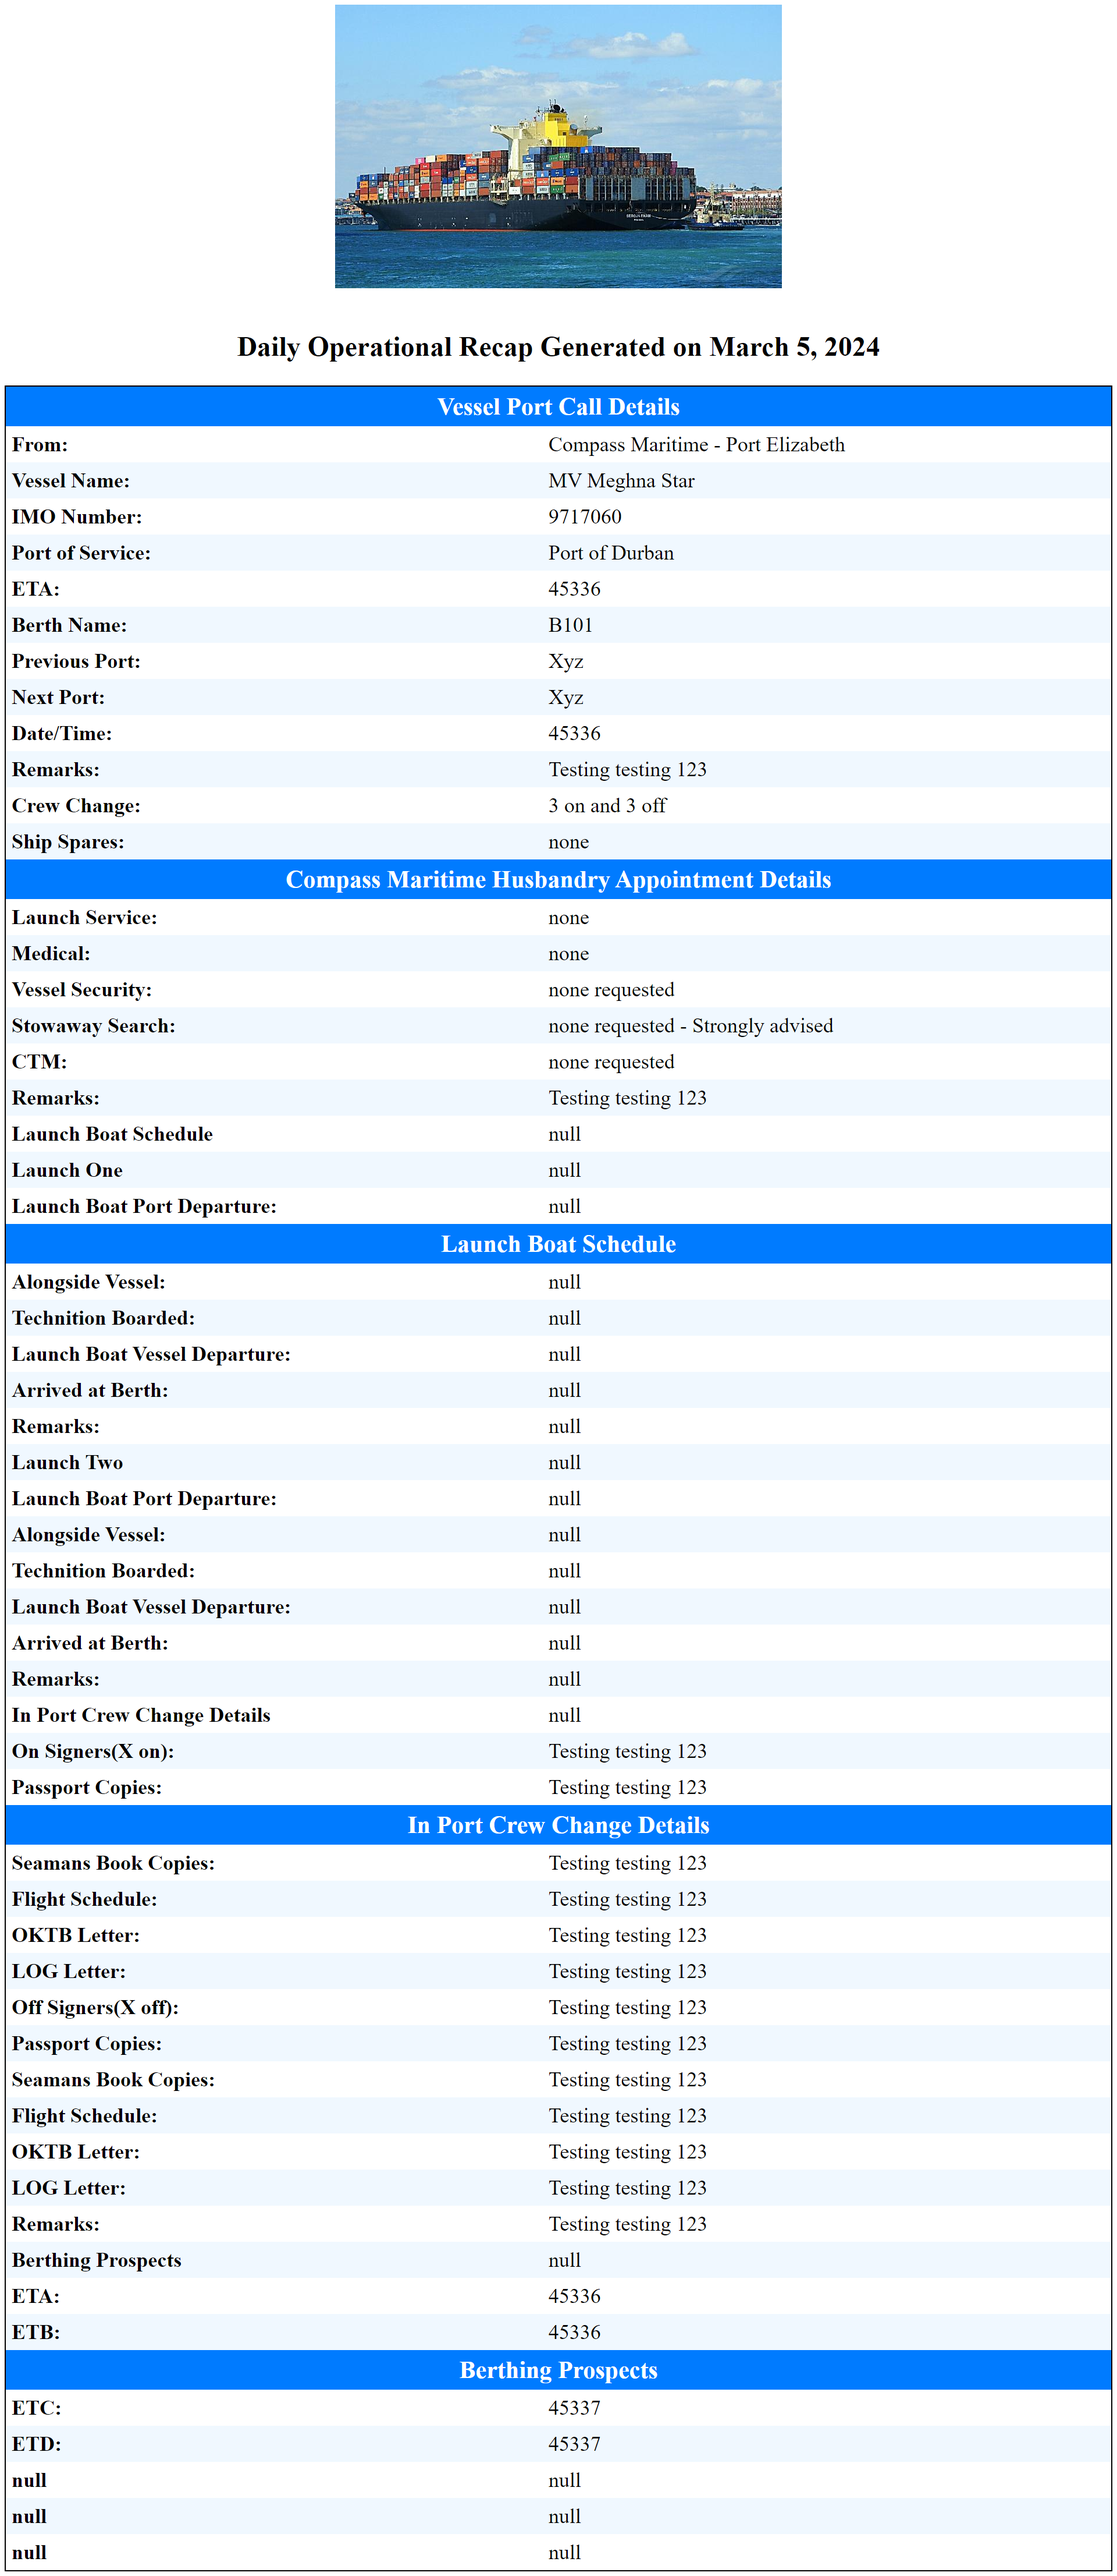
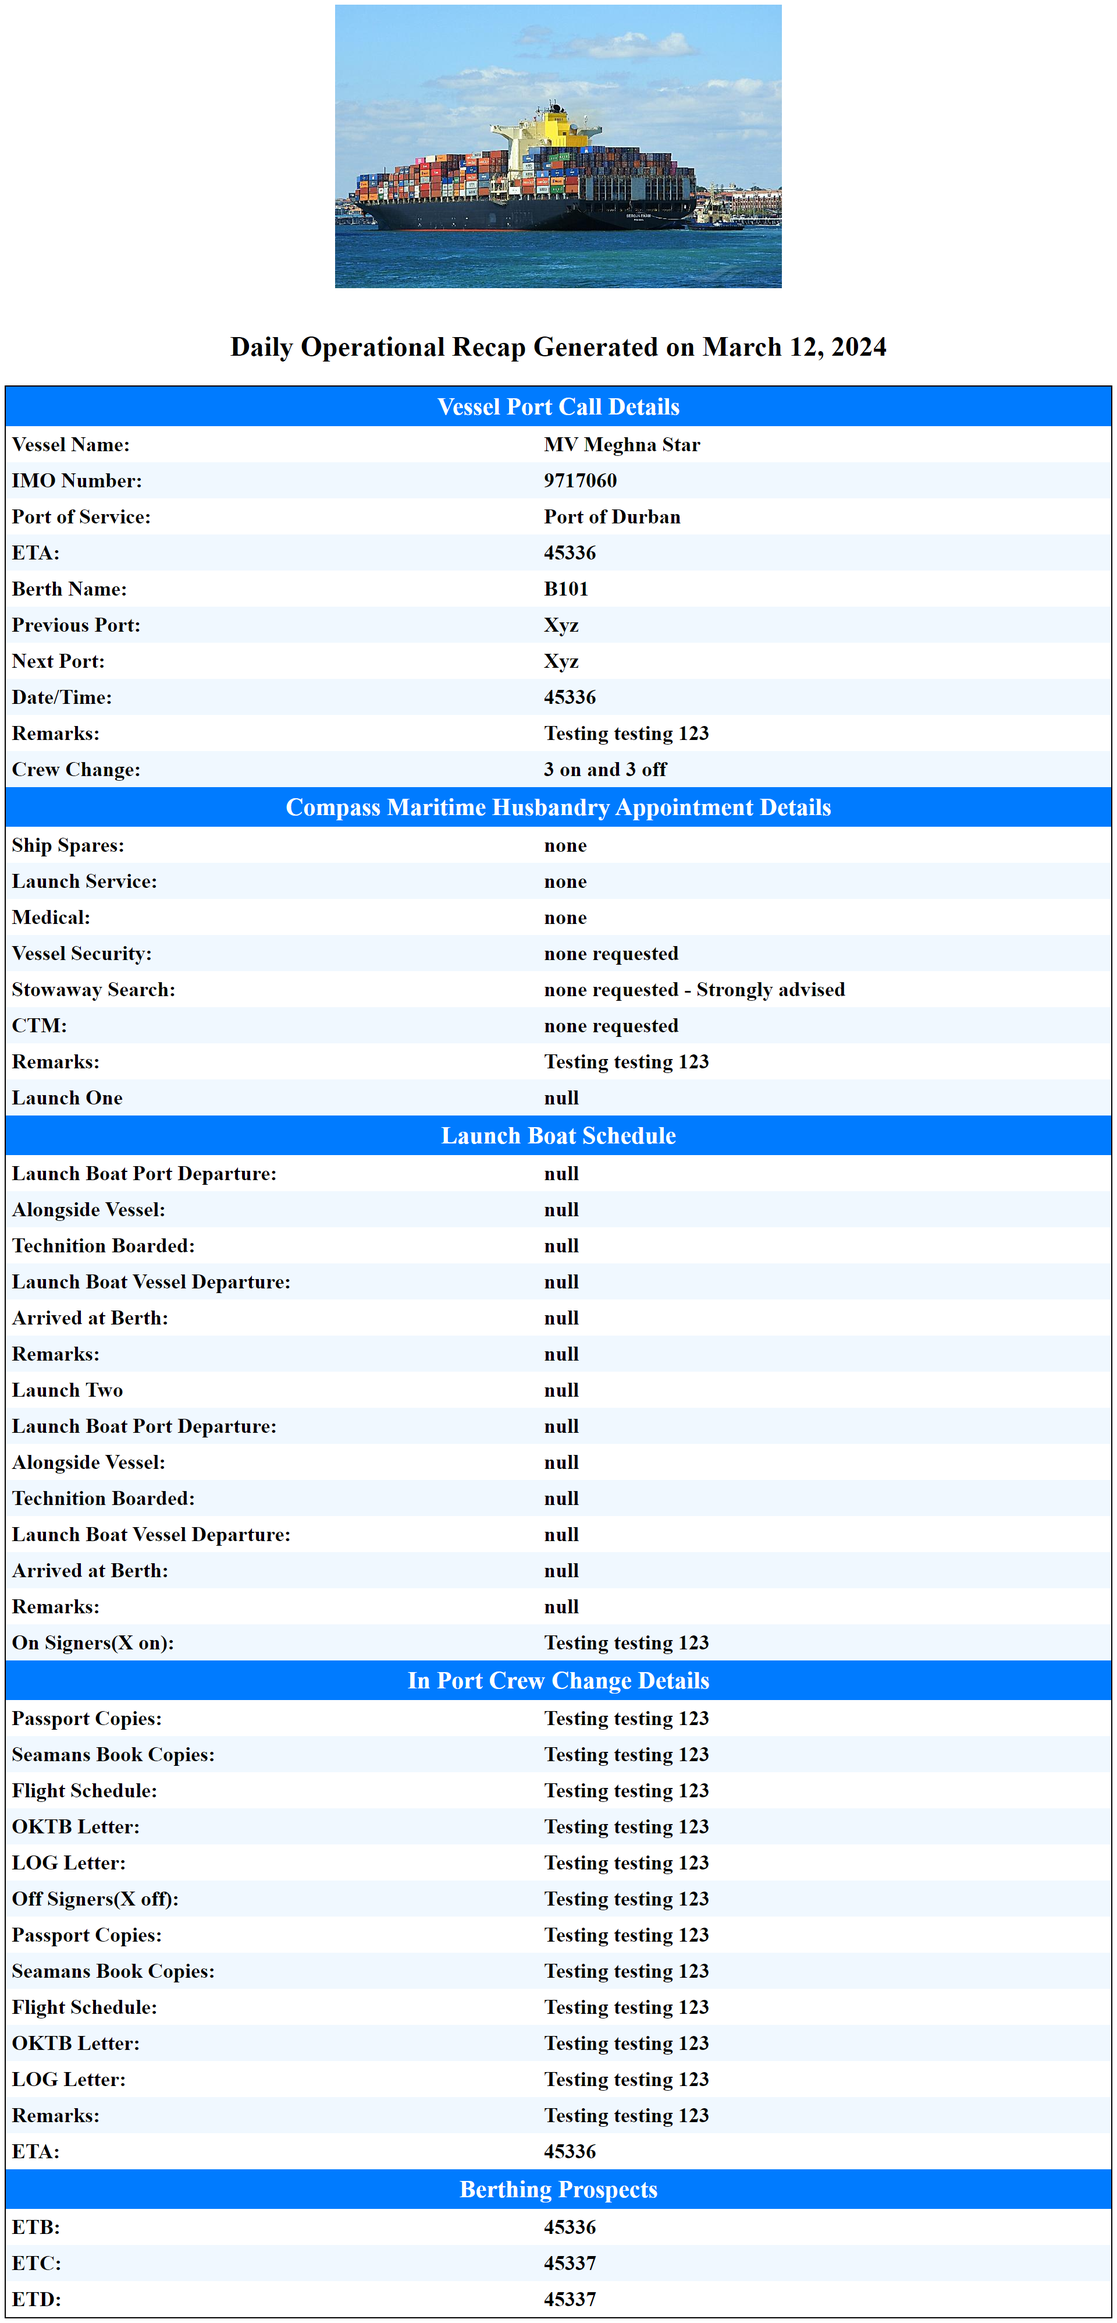
another commit - getting there

Changed region(s): [[0.0, 0.0311, 1.0, 0.9945], [0.6562, 0.404, 0.6875, 0.4351]]

diff --git a/dailyRecapScreenshot2.js b/dailyRecapScreenshot2.js
@@ -13,11 +13,11 @@ const doc = new GoogleSpreadsheet(config.googleSheetId2);
 
 // Define the row indices for each section heading
 const HEADINGS = [
-    { title: 'Vessel Port Call Details', startRow: 3, endRow: 14 },
-    { title: 'Compass Maritime Husbandry Appointment Details', startRow: 15, endRow: 23 },
-    { title: 'Launch Boat Schedule', startRow: 24, endRow: 38 },
-    { title: 'In Port Crew Change Details', startRow: 39, endRow: 52 },
-    { title: 'Berthing Prospects', startRow: 53, endRow: 57 }
+    { title: 'Vessel Port Call Details', startRow: 4, endRow: 13 },
+    { title: 'Compass Maritime Husbandry Appointment Details', startRow: 14, endRow: 21 },
+    { title: 'Launch Boat Schedule', startRow: 22, endRow: 35 },
+    { title: 'In Port Crew Change Details', startRow: 36, endRow: 48 },
+    { title: 'Berthing Prospects', startRow: 49, endRow: 52 }
 ];
 
 const captureAndSendDailyRecapScreenshot2 = async () => {
@@ -45,10 +45,13 @@ const captureAndSendDailyRecapScreenshot2 = async () => {
             // Create an HTML layout with company logo on the top left
             let htmlContent = '';
 
+            // Add company logo at the top left
+            htmlContent += `<div style="position: absolute; top: 10px; left: 10px;"><img src="${config.companyLogoURL}" style="height: 50px; width: auto;"></div>`;
+
             // Search for vessel image based on IMO number
             const vesselImageURL = await searchVesselImage(sheet.getCell(6, 1).value); // IMO number at B7
 
-            // Add vessel image above the main heading
+            // Add vessel image in the middle
             if (vesselImageURL) {
                 htmlContent += `<div style="text-align: center;"><img src="${vesselImageURL}" style="max-width: 800px; height: auto; margin-bottom: 40px;"></div>`;
             }
@@ -62,19 +65,36 @@ const captureAndSendDailyRecapScreenshot2 = async () => {
 
             // Add headings and information rows
             for (const heading of HEADINGS) {
-                htmlContent += `<tr><th colspan="2" style="background-color: #007bff; color: white; text-align: center; font-size: 42px; font-weight: bold; padding: 10px;">${heading.title}</th></tr>`;
-
-                // Add rows within the specified range for each section
-                let isLightBlueBackground = false;
+                // Check if any row within the range has data
+                let hasData = false;
                 for (let i = heading.startRow; i <= heading.endRow; i++) {
-                    htmlContent += `<tr style="background-color: ${isLightBlueBackground ? '#f0f8ff' : 'white'};">`;
-                    for (let j = 0; j < 2; j++) {
-                        const cell = sheet.getCell(i, j);
-                        const fontWeight = j === 0 ? 'bold' : 'normal';
-                        htmlContent += `<td style="padding: 10px; font-weight: ${fontWeight};">${cell.value}</td>`;
+                    const cell1 = sheet.getCell(i, 0);
+                    const cell2 = sheet.getCell(i, 1);
+                    if (cell1.value || cell2.value) {
+                        hasData = true;
+                        break;
                     }
-                    htmlContent += '</tr>';
-                    isLightBlueBackground = !isLightBlueBackground; // Toggle background color
+                }
+
+                // Add section only if it has data
+                if (hasData) {
+                    htmlContent += `<tr><th colspan="2" style="background-color: #007bff; color: white; text-align: center; font-size: 42px; font-weight: bold; padding: 10px;">${heading.title}</th></tr>`;
+
+                    // Add rows within the specified range for each section
+                    let isLightBlueBackground = false;
+                    for (let i = heading.startRow; i <= heading.endRow; i++) {
+                        const cell1 = sheet.getCell(i, 0);
+                        const cell2 = sheet.getCell(i, 1);
+                        // Only add rows with data
+                        if (cell1.value || cell2.value) {
+                            htmlContent += `<tr style="background-color: ${isLightBlueBackground ? '#f0f8ff' : 'white'};">`;
+                            const fontWeight = 'bold';
+                            htmlContent += `<td style="padding: 10px; font-weight: ${fontWeight};">${cell1.value}</td>`;
+                            htmlContent += `<td style="padding: 10px; font-weight: ${fontWeight};">${cell2.value}</td>`;
+                            htmlContent += '</tr>';
+                            isLightBlueBackground = !isLightBlueBackground; // Toggle background color
+                        }
+                    }
                 }
             }
 
